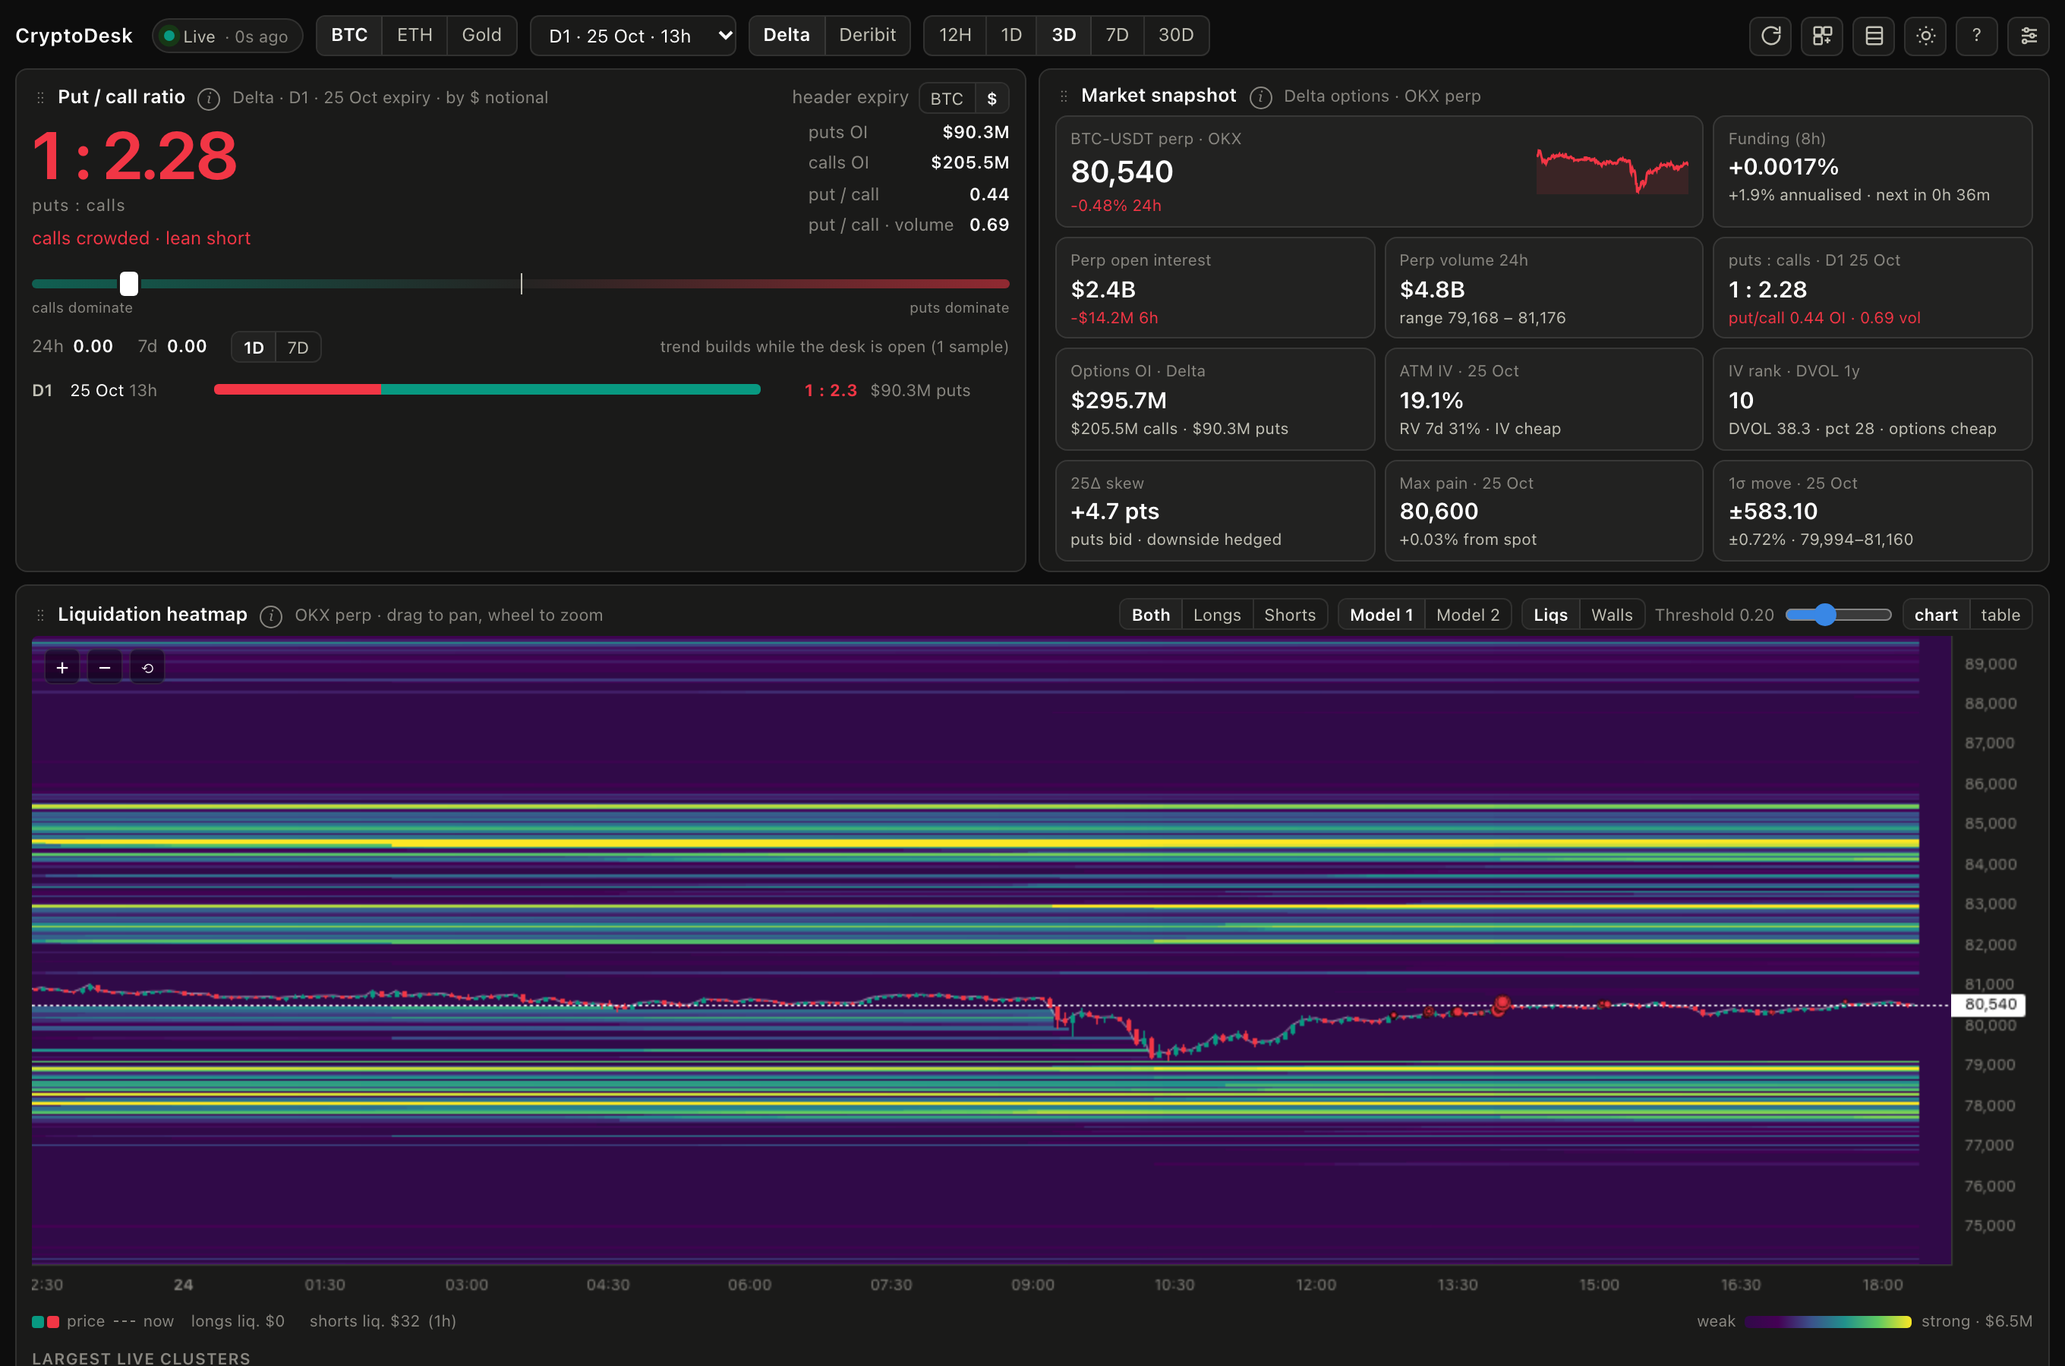
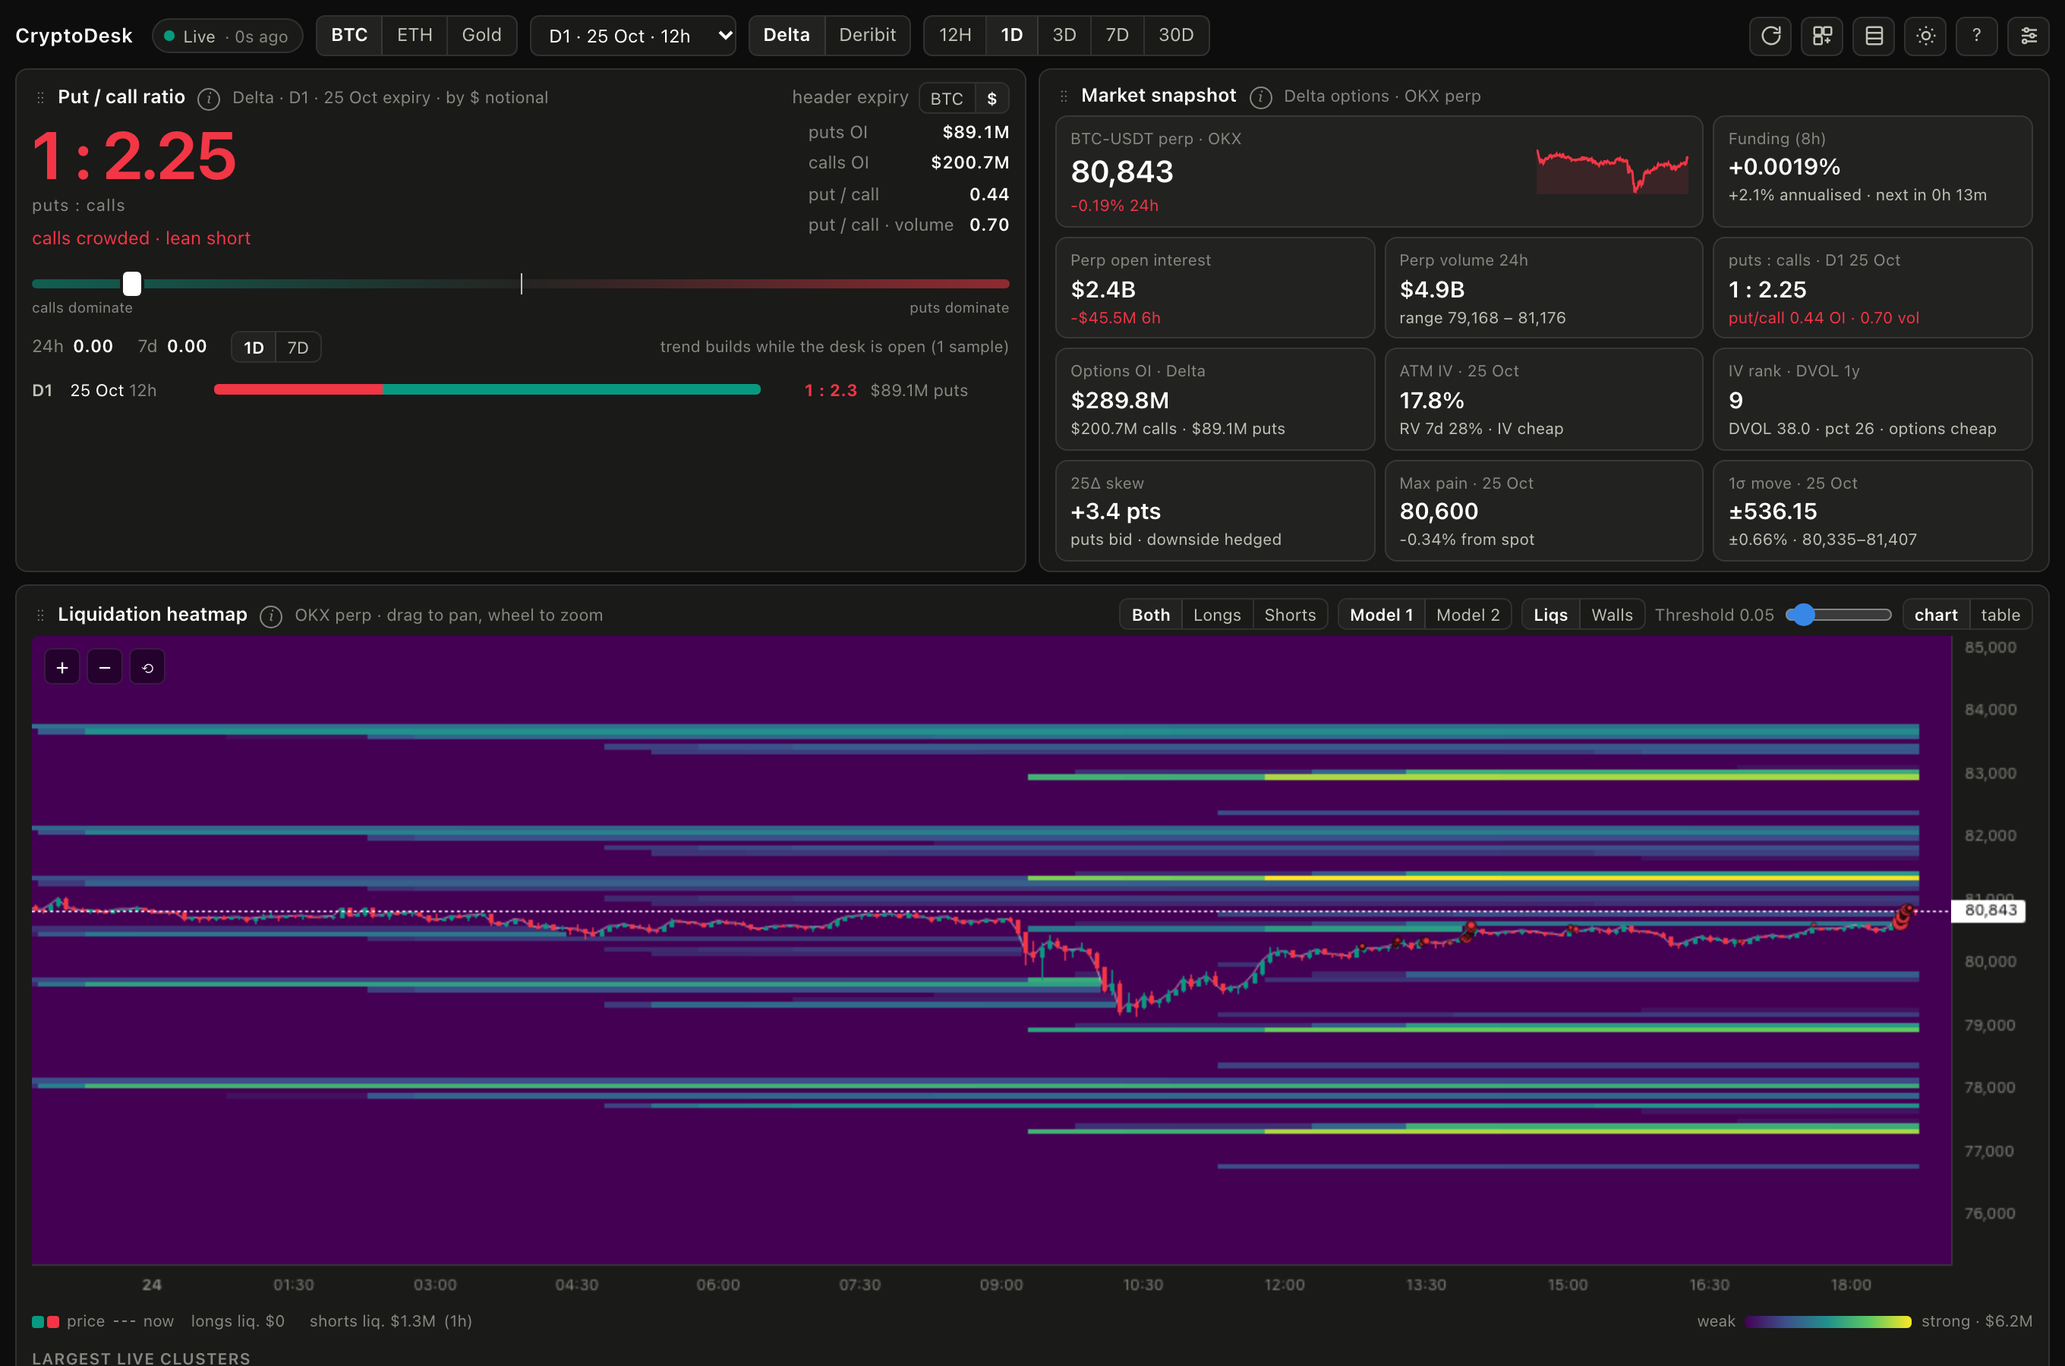
heatmap: read like the public liquidation maps
Three leverage tiers (25x, 50x, 100x) instead of six, bands a fixed ~0.1% of
price tall, open interest settled as ~48 net entries per window instead of one
per tick, a linear colour ramp from the flat field (no gamma), the price axis
tightened to the traded range plus the widest tier, and 1D as the default
window. Threshold moves to a new storage key so the new default applies.

diff --git a/src/lib/liquidation.ts b/src/lib/liquidation.ts
@@ -17,17 +17,24 @@ export interface LiqConfig {
   model: LiqModel;
   /** Maintenance margin as a fraction (0.005 = 0.5%). */
   mm: number;
+  /** Upper bound on price bins. */
   bins: number;
+  /** Target bin height as a fraction of price (0.001 = 0.1%); the bin count follows from the range, capped at `bins`. */
+  binPct?: number;
+  /** Bars per entry window: open-interest change is settled as one net entry per window (1 = every bar). */
+  entryBars?: number;
 }
 
+/**
+ * Leverage tiers for new positions. Three tiers, the way the public liquidation maps draw them: each entry
+ * leaves one band per tier per side, at 1%, 2% and 4% from the entry price (plus maintenance margin).
+ */
 export const LEVERAGE_TIERS: Array<{ lev: number; w: number }> = [
-  { lev: 10, w: 0.18 },
-  { lev: 20, w: 0.22 },
-  { lev: 25, w: 0.22 },
-  { lev: 50, w: 0.18 },
-  { lev: 75, w: 0.1 },
-  { lev: 100, w: 0.1 },
+  { lev: 25, w: 0.4 },
+  { lev: 50, w: 0.35 },
+  { lev: 100, w: 0.25 },
 ];
+const MAX_DIST = 1 / LEVERAGE_TIERS[0].lev;
 
 export interface Heatmap {
   times: number[];
@@ -62,11 +69,13 @@ export function computeHeatmap(price: Candle[], oi: Candle[], cfg: LiqConfig): H
     if (c.l < lo) lo = c.l;
     if (c.h > hi) hi = c.h;
   }
-  // Room for the 10× levels (±10%) on both sides of the traded range.
-  lo *= 0.89;
-  hi *= 1.11;
-  const bins = cfg.bins;
+  // Room for the widest tier on both sides of the traded range.
+  lo *= 1 - MAX_DIST - 0.01;
+  hi *= 1 + MAX_DIST + 0.01;
+  const mid = (lo + hi) / 2;
+  const bins = cfg.binPct ? Math.min(cfg.bins, Math.max(40, Math.round((hi - lo) / (mid * cfg.binPct)))) : cfg.bins;
   const binSize = (hi - lo) / bins;
+  const entryBars = Math.max(1, cfg.entryBars ?? 1);
   const binOf = (p: number) => Math.min(bins - 1, Math.max(0, Math.floor((p - lo) / binSize)));
   const levelOf = (b: number) => lo + (b + 0.5) * binSize;
 
@@ -79,41 +88,45 @@ export function computeHeatmap(price: Candle[], oi: Candle[], cfg: LiqConfig): H
   const sampleA: number[] = [];
   const stride = Math.max(1, Math.floor((rows.length * bins) / 60_000));
   let k = 0;
+  // Entry window: OI at the window's first bar and the price there; settled at the window's last bar.
+  let windowOi = oiByT.get(rows[0].t)!;
+  let windowPx = rows[0].c;
 
   for (let i = 0; i < rows.length; i++) {
     const c = rows[i];
     const oiNow = oiByT.get(c.t)!;
     if (i > 0) {
-      const prev = rows[i - 1];
-      const oiPrev = oiByT.get(prev.t)!;
-
-      // 1. Price traded through a level -> those positions are gone.
+      // 1. Price traded through a level -> those positions are gone (checked every bar).
       for (let b = 0; b < bins; b++) {
         if (liveLong[b] > 0 && levelOf(b) >= c.l) liveLong[b] = 0;
         if (liveShort[b] > 0 && levelOf(b) <= c.h) liveShort[b] = 0;
       }
 
-      // 2. Open interest fell -> positions closed, scale the book down.
-      if (oiPrev > 0 && oiNow < oiPrev) {
-        const f = oiNow / oiPrev;
-        for (let b = 0; b < bins; b++) {
-          liveLong[b] *= f;
-          liveShort[b] *= f;
+      if (i % entryBars === 0 || i === rows.length - 1) {
+        // 2. Net open interest fell over the window -> positions closed, scale the book down.
+        if (windowOi > 0 && oiNow < windowOi) {
+          const f = oiNow / windowOi;
+          for (let b = 0; b < bins; b++) {
+            liveLong[b] *= f;
+            liveShort[b] *= f;
+          }
         }
-      }
 
-      // 3. Open interest rose -> new positions at this bar's price.
-      if (oiNow > oiPrev) {
-        const notional = (oiNow - oiPrev) * c.c;
-        let longShare = 0.5;
-        if (cfg.model === 'directional' && prev.c > 0) {
-          const ret = c.c / prev.c - 1;
-          longShare = Math.min(0.7, Math.max(0.3, 0.5 + ret * 20));
+        // 3. Net open interest rose -> new positions at the window's closing price.
+        if (oiNow > windowOi) {
+          const notional = (oiNow - windowOi) * c.c;
+          let longShare = 0.5;
+          if (cfg.model === 'directional' && windowPx > 0) {
+            const ret = c.c / windowPx - 1;
+            longShare = Math.min(0.7, Math.max(0.3, 0.5 + ret * 20));
+          }
+          for (const { lev, w } of LEVERAGE_TIERS) {
+            liveLong[binOf(c.c * (1 - 1 / lev + cfg.mm))] += notional * w * longShare;
+            liveShort[binOf(c.c * (1 + 1 / lev - cfg.mm))] += notional * w * (1 - longShare);
+          }
         }
-        for (const { lev, w } of LEVERAGE_TIERS) {
-          liveLong[binOf(c.c * (1 - 1 / lev + cfg.mm))] += notional * w * longShare;
-          liveShort[binOf(c.c * (1 + 1 / lev - cfg.mm))] += notional * w * (1 - longShare);
-        }
+        windowOi = oiNow;
+        windowPx = c.c;
       }
     }
 

diff --git a/src/lib/__tests__/liquidation.test.ts b/src/lib/__tests__/liquidation.test.ts
@@ -40,7 +40,7 @@ describe('liquidation heatmap estimator', () => {
   });
 
   it('price trading through a level clears it', () => {
-    // open positions at 100, then a bar whose low sweeps to 85: every long level ≥ 85 (10×, 20×, 25×… all of them) is gone
+    // open positions at 100, then a bar whose low sweeps to 85: every long level ≥ 85 (25×, 50×, 100×: all of them) is gone
     const { price, oi } = series([bar(0, 100, 10), bar(60, 100, 20), bar(120, 85, 20, 100, 85)]);
     const h = computeHeatmap(price, oi, { model: 'balanced', mm: 0.005, bins: 400 })!;
     const last = (h.times.length - 1) * h.bins;
@@ -65,6 +65,26 @@ describe('liquidation heatmap estimator', () => {
     const liveLong = Array.from(h.long.slice(last, last + h.bins)).reduce((s, v) => s + v, 0);
     const liveShort = Array.from(h.short.slice(last, last + h.bins)).reduce((s, v) => s + v, 0);
     expect(liveLong).toBeGreaterThan(liveShort);
+  });
+
+  it('settles open interest as one net entry per window', () => {
+    // OI 10 → 15 → 12 over one 2-bar window: net +2 at the window close, not +5 then ×0.8
+    const { price, oi } = series([bar(0, 100, 10), bar(60, 100, 15), bar(120, 100, 12), bar(180, 100, 12)]);
+    const h = computeHeatmap(price, oi, { model: 'balanced', mm: 0.005, bins: 400, entryBars: 2 })!;
+    const last = (h.times.length - 1) * h.bins;
+    const liveLong = Array.from(h.long.slice(last, last + h.bins)).reduce((s, v) => s + v, 0);
+    expect(liveLong).toBeCloseTo(100, 3); // (12 - 10) × 100 × 0.5
+    const perBar = computeHeatmap(price, oi, { model: 'balanced', mm: 0.005, bins: 400 })!;
+    const perBarLong = Array.from(perBar.long.slice(last, last + perBar.bins)).reduce((s, v) => s + v, 0);
+    expect(perBarLong).toBeCloseTo(250 * 0.8, 3);
+  });
+
+  it('bin height follows binPct and is capped by bins', () => {
+    const { price, oi } = series([bar(0, 100, 10), bar(60, 100, 20), bar(120, 100, 20)]);
+    const h = computeHeatmap(price, oi, { model: 'balanced', mm: 0.005, bins: 400, binPct: 0.001 })!;
+    expect(h.bins).toBeLessThan(400);
+    expect(h.binSize / 100).toBeCloseTo(0.001, 3);
+    expect(computeHeatmap(price, oi, { model: 'balanced', mm: 0.005, bins: 50, binPct: 0.001 })!.bins).toBe(50);
   });
 
   it('returns null without enough joined bars and ignores unmatched timestamps', () => {

diff --git a/src/App.tsx b/src/App.tsx
@@ -57,7 +57,7 @@ function ageText(ms: number | null, now: number): string {
 
 export function App() {
   const [asset, setAsset] = useLocalStorage<Asset>('cd.asset', 'BTC');
-  const [range, setRange] = useLocalStorage<RangeKey>('cd.range', '3D');
+  const [range, setRange] = useLocalStorage<RangeKey>('cd.range', '1D');
   const [storedPanels, setPanels] = useLocalStorage<Partial<Record<PanelKey, boolean>>>('cd.panels', ALL_ON);
   const panels: Record<PanelKey, boolean> = { ...ALL_ON, ...storedPanels };
   const [storedOrder, setOrder] = useLocalStorage<PanelKey[]>('cd.order', DEFAULT_ORDER);
@@ -75,7 +75,7 @@ export function App() {
   const [side, setSide] = useLocalStorage<LiqSide>('cd.side', 'all');
   const [model, setModel] = useLocalStorage<LiqModel>('cd.model', 'balanced');
   const [palette, setPalette] = useLocalStorage<Palette>('cd.palette', 'viridis');
-  const [threshold, setThreshold] = useLocalStorage<number>('cd.threshold', 0.2);
+  const [threshold, setThreshold] = useLocalStorage<number>('cd.threshold2', 0.05);
   const [showLiq, setShowLiq] = useLocalStorage<boolean>('cd.showLiq', true);
   const [showWalls, setShowWalls] = useLocalStorage<boolean>('cd.showWalls', false);
   const [oiUsd, setOiUsd] = useLocalStorage<boolean>('cd.oiUsd', true);
@@ -510,7 +510,7 @@ export function App() {
         Data: options chain from <a href="https://www.delta.exchange" target="_blank" rel="noreferrer">Delta Exchange</a> (default; gold is Delta only) or{' '}
         <a href="https://www.deribit.com" target="_blank" rel="noreferrer">Deribit</a> (BTC, ETH, header toggle); perp price, open interest, funding and liquidations from{' '}
         <a href="https://www.okx.com" target="_blank" rel="noreferrer">OKX</a> (streamed over websocket; candles and OI history refreshed every 60s); IV rank from Deribit's DVOL.
-        Liquidation levels are estimates derived from open-interest changes and assumed leverage tiers (10×–100×), not confirmed positions. Gamma exposure assumes dealers are long calls and short puts.
+        Liquidation levels are estimates derived from open-interest changes and assumed leverage tiers (25×, 50×, 100×), not confirmed positions. Gamma exposure assumes dealers are long calls and short puts.
       </p>
     </div>
   );

diff --git a/src/hooks/useHeatmap.ts b/src/hooks/useHeatmap.ts
@@ -2,7 +2,11 @@ import { useEffect, useRef, useState } from 'react';
 import type { Candle } from '../api/delta';
 import { computeHeatmap, type Heatmap, type LiqModel } from '../lib/liquidation';
 
-const CFG = { mm: 0.005, bins: 400 };
+// Bands ~0.1% of price tall; open interest settles as ~48 net entries per window (30 min on 1D, 90 min on 3D, …),
+// so the map has the same density whatever the range instead of one entry per tick.
+const CFG = { mm: 0.005, bins: 400, binPct: 0.001 };
+const ENTRIES_PER_WINDOW = 48;
+const entryBarsFor = (price: Candle[]): number => Math.max(1, Math.round(price.length / ENTRIES_PER_WINDOW));
 
 /** Runs the estimator in a Web Worker (falls back to the main thread where workers are unavailable). */
 export function useHeatmap(price: Candle[], oi: Candle[], model: LiqModel): { heatmap: Heatmap | null; computing: boolean } {
@@ -31,7 +35,7 @@ export function useHeatmap(price: Candle[], oi: Candle[], model: LiqModel): { he
     const id = ++seq.current;
     const w = worker.current;
     if (!w) {
-      setHeatmap(computeHeatmap(price, oi, { model, ...CFG }));
+      setHeatmap(computeHeatmap(price, oi, { model, ...CFG, entryBars: entryBarsFor(price) }));
       return;
     }
     setComputing(true);
@@ -42,7 +46,7 @@ export function useHeatmap(price: Candle[], oi: Candle[], model: LiqModel): { he
       w.removeEventListener('message', onMsg);
     };
     w.addEventListener('message', onMsg);
-    w.postMessage({ id, price, oi, cfg: { model, ...CFG } });
+    w.postMessage({ id, price, oi, cfg: { model, ...CFG, entryBars: entryBarsFor(price) } });
     return () => w.removeEventListener('message', onMsg);
   }, [price, oi, model]);
 

diff --git a/src/components/HeatmapChart.tsx b/src/components/HeatmapChart.tsx
@@ -77,8 +77,8 @@ function buildGrid(h: Heatmap, side: LiqSide): HeatmapGrid {
     if (k.l < tLo) tLo = k.l;
     if (k.h > tHi) tHi = k.h;
   }
-  // traded range + 6% each side: the 10×–25× clusters stay in view, candles fill the pane
-  return { bins: h.bins, priceMin: h.priceMin, binSize: h.binSize, values, cap, lo, hi, viewLo: tLo * 0.94, viewHi: tHi * 1.06 };
+  // traded range + ~4.7% each side: the 25× bands (4% + margin + band height) stay in view, candles fill the middle
+  return { bins: h.bins, priceMin: h.priceMin, binSize: h.binSize, values, cap, lo, hi, viewLo: tLo * 0.953, viewHi: tHi * 1.047 };
 }
 
 export function HeatmapChart({ heatmap, side, palette, threshold, theme, spot, height, windowKey, up, down, liquidations, showLiquidations, walls, showWalls }: Props) {
@@ -170,7 +170,7 @@ export function HeatmapChart({ heatmap, side, palette, threshold, theme, spot, h
     });
     closeLine.current = ln;
     const hp = new HeatmapPrimitive();
-    hp.setOptions({ palette, theme, threshold, gamma: 1.5 });
+    hp.setOptions({ palette, theme, threshold, gamma: 1 });
     const d = new LiquidationDots();
     const w = new OptionsWalls();
     cs.attachPrimitive(hp);

diff --git a/src/lib/glossary.ts b/src/lib/glossary.ts
@@ -1,7 +1,7 @@
 /** One-paragraph explanations shown from the ⓘ on each panel, written for a trader who has not met the term before. */
 export const GLOSSARY: Record<string, { what: string; read: string }> = {
   heatmap: {
-    what: 'Where leveraged positions would be force-closed if price got there. Each horizontal band is an estimated pile of liquidation orders; brighter means bigger. It is built from changes in open interest and typical leverage, not from anyone\'s real positions.',
+    what: 'Where leveraged positions would be force-closed if price got there. Each horizontal band is an estimated pile of liquidation orders; brighter means bigger. It is built from changes in open interest and typical leverage (25×, 50× and 100×, settled about 48 times per window: every 30 minutes on 1D), not from anyone\'s real positions.',
     read: 'Bright bands act like magnets and like fuel: price often runs toward them, and when it arrives the forced orders push it through. Bands above price are shorts at risk, bands below are longs. Dots are liquidations that actually happened.',
   },
   ratio: {

diff --git a/src/lib/heatmapSeries.ts b/src/lib/heatmapSeries.ts
@@ -16,12 +16,12 @@ export type Palette = 'viridis' | 'mono';
 export type RGB = [number, number, number];
 type Stop = { at: number; c: RGB };
 
+// Plain viridis: the field is its first stop, so faint bands read as a slightly lighter purple-blue and only real stacks go yellow.
 const VIRIDIS: Stop[] = [
-  { at: 0, c: [48, 10, 72] },
-  { at: 0.2, c: [68, 1, 84] },
-  { at: 0.4, c: [59, 82, 139] },
-  { at: 0.6, c: [33, 145, 140] },
-  { at: 0.8, c: [94, 201, 98] },
+  { at: 0, c: [68, 1, 84] },
+  { at: 0.25, c: [59, 82, 139] },
+  { at: 0.5, c: [33, 145, 140] },
+  { at: 0.75, c: [94, 201, 98] },
   { at: 1, c: [253, 231, 37] },
 ];
 const MONO_DARK: Stop[] = [
@@ -101,7 +101,7 @@ export interface HeatmapOptions {
   gamma: number;
 }
 
-const DEFAULTS: HeatmapOptions = { palette: 'viridis', theme: 'dark', threshold: 0.2, gamma: 1.5 };
+const DEFAULTS: HeatmapOptions = { palette: 'viridis', theme: 'dark', threshold: 0.05, gamma: 1 };
 
 class HeatmapRenderer implements IPrimitivePaneRenderer {
   private cacheKey = '';

diff --git a/src/components/LiqHeatmap.tsx b/src/components/LiqHeatmap.tsx
@@ -87,7 +87,7 @@ export function LiqHeatmap(p: HeatmapPanelProps) {
           </div>
           <label className="slider" title="Hide levels weaker than this share of the strongest">
             <span>Threshold {p.threshold.toFixed(2)}</span>
-            <input type="range" min={0} max={0.6} step={0.05} value={p.threshold} onChange={(e) => p.onThreshold(parseFloat(e.target.value))} />
+            <input type="range" min={0} max={0.5} step={0.05} value={p.threshold} onChange={(e) => p.onThreshold(parseFloat(e.target.value))} />
           </label>
         </>
       }

diff --git a/CHANGELOG.md b/CHANGELOG.md
@@ -12,6 +12,9 @@
   carries across assets and venues and every session opens on the nearest daily expiry.
 - **Multi-asset widget.** The widget can show BTC, ETH and gold at once, stacked in a column (portrait) or side
   by side (landscape); the asset buttons toggle membership and both choices are remembered.
+- **Cleaner liquidation heatmap.** Three leverage tiers (25×, 50×, 100×) instead of six, bands a fixed ~0.1% of
+  price tall, open interest settled as ~48 net entries per window rather than one per tick, a linear colour ramp
+  from a flat field, and a tighter price axis. The default window is now 1D.
 - Windows build is pinned to x64 (`electron-builder --win zip --x64`); the host's arm64 was leaking in.
 - Repository: MIT licence, CI, architecture notes, screenshots.
 

diff --git a/docs/ARCHITECTURE.md b/docs/ARCHITECTURE.md
@@ -61,7 +61,7 @@ Black-Scholes greeks (`lib/bs.ts`) for venues that do not publish them, and Delt
 
 ## Liquidation heatmap (`lib/liquidation.ts`, `lib/heatmap.worker.ts`)
 
-An estimate, not a feed: each bar's change in perp open interest is spread over leverage tiers (10×–100×),
+An estimate, not a feed: the net change in perp open interest over each entry window (about 48 per range: 30 minutes on 1D) is spread over three leverage tiers (25×, 50×, 100×),
 mapped to the liquidation prices those entries imply, cleared when price trades through them and scaled
 down when open interest falls. The estimator runs in a Web Worker; `useHeatmap` posts candles and OI in and
 receives a price × time grid. Rendering uses TradingView's lightweight-charts with two custom pieces:
